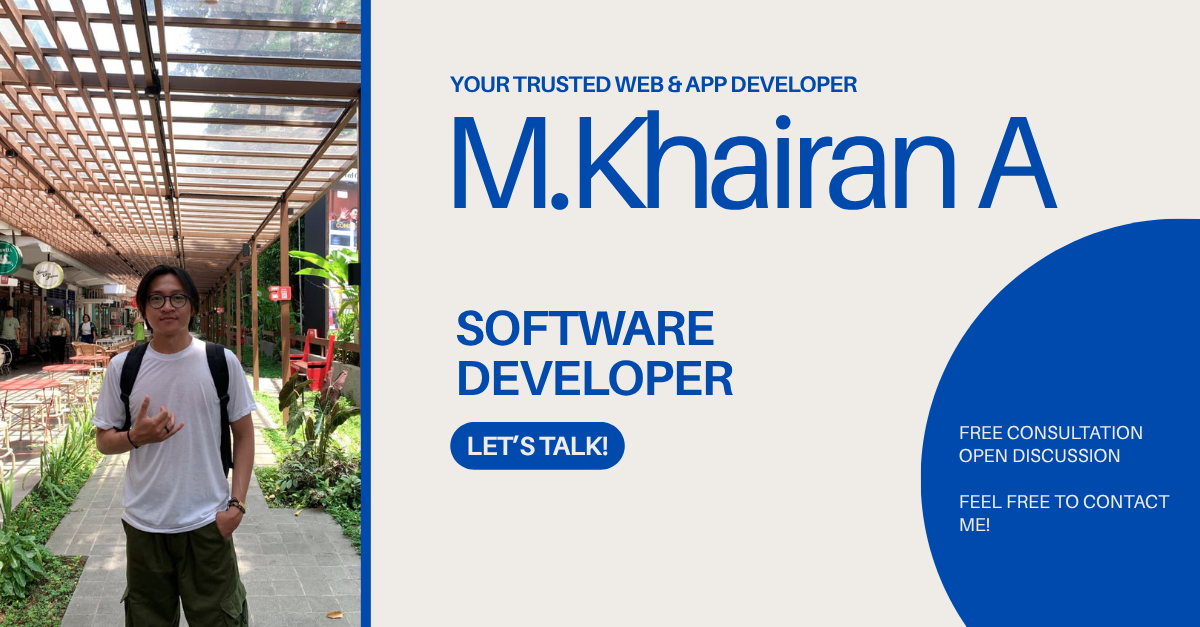
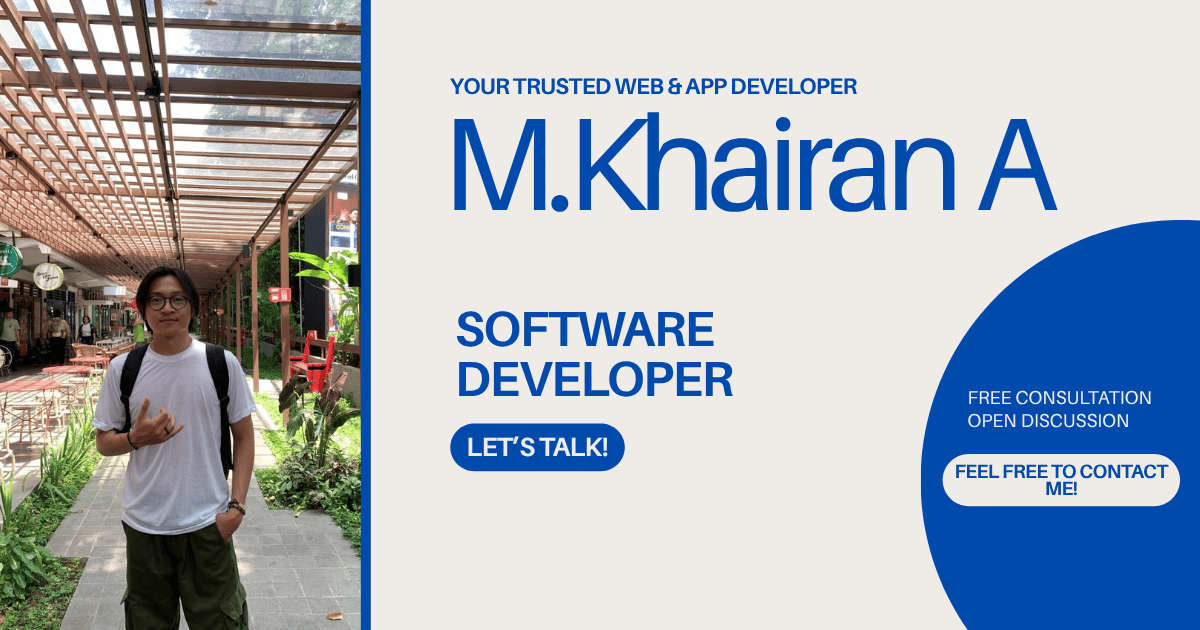
FIX OG SEO

diff --git a/index.html b/index.html
@@ -3,23 +3,23 @@
 <head>
     <meta charset="UTF-8">
     <meta name="viewport" content="width=device-width, initial-scale=1.0">
-    <meta name="title" content="Personal Portfolio | Software Developer">
-    <meta name="description" content="Personal portfolio of Khay, a Software Developer based in Indonesia and have experience in building modern web applications.">
+    <meta name="title" content="Personal Portfolio | Software & Full-Stack Developer">
+    <meta name="description" content="Personal portfolio of Khay, a Software & Full-Stack Developer based in Indonesia and have experience in building modern web applications.">
 
     <meta property="og:type" content="website">
-    <meta property="og:title" content="Personal Portfolio | Software Developer">
-    <meta property="og:description" content="Personal portfolio of Khay, a Software Developer based in Indonesia and have experience in building modern web applications.">
+    <meta property="og:title" content="Personal Portfolio Website | Software & Full-Stack Developer">
+    <meta property="og:description" content="Personal portfolio of Khay, a Software & Full-Stack Developer based in Indonesia and have experience in building modern web applications.">
     <meta property="og:image" content="https://mochamadkhairan.github.io/My-Portfolio/aset/M.Khairan.png">
     <meta property="og:url" content="https://mochamadkhairan.github.io/My-Portfolio">
 
     <meta property="twitter:card" content="summary_large_image">
-    <meta property="twitter:title" content="Personal Portfolio | Software Developer">
-    <meta property="twitter:description" content="Personal portfolio of Khay, a Software Developer based in Indonesia and have experience in building modern web applications.">
+    <meta property="twitter:title" content="Personal Portfolio Website | Software & Full-Stack Developer">
+    <meta property="twitter:description" content="Personal portfolio of Khay, a Software & Full-Stack Developer based in Indonesia and have experience in building modern web applications.">
     <meta property="twitter:image" content="https://mochamadkhairan.github.io/My-Portfolio/aset/M.Khairan.png">
     <meta property="twitter:url" content="https://mochamadkhairan.github.io/My-Portfolio">
 
     <meta property="keywords" content="Software Developer, Web Development, Mobile App Development, UI/UX Design, Portfolio, Personal Website, Laravel, Flutter, Tailwind CSS, MySQL, Git, VS Code, Figma">
-    <title>Personal Portfolio | Software Developer</title>
+    <title>Personal Portfolio | Software & Full-Stack Developer</title>
     <link href="https://fonts.googleapis.com/css2?family=Inter:wght@300;400;700&display=swap" rel="stylesheet">
     <link href="https://fonts.googleapis.com/css2?family=Inter:wght@400;600;700&display=swap" rel="stylesheet">
     <link rel="stylesheet" href="https://cdnjs.cloudflare.com/ajax/libs/font-awesome/6.0.0/css/all.min.css">
